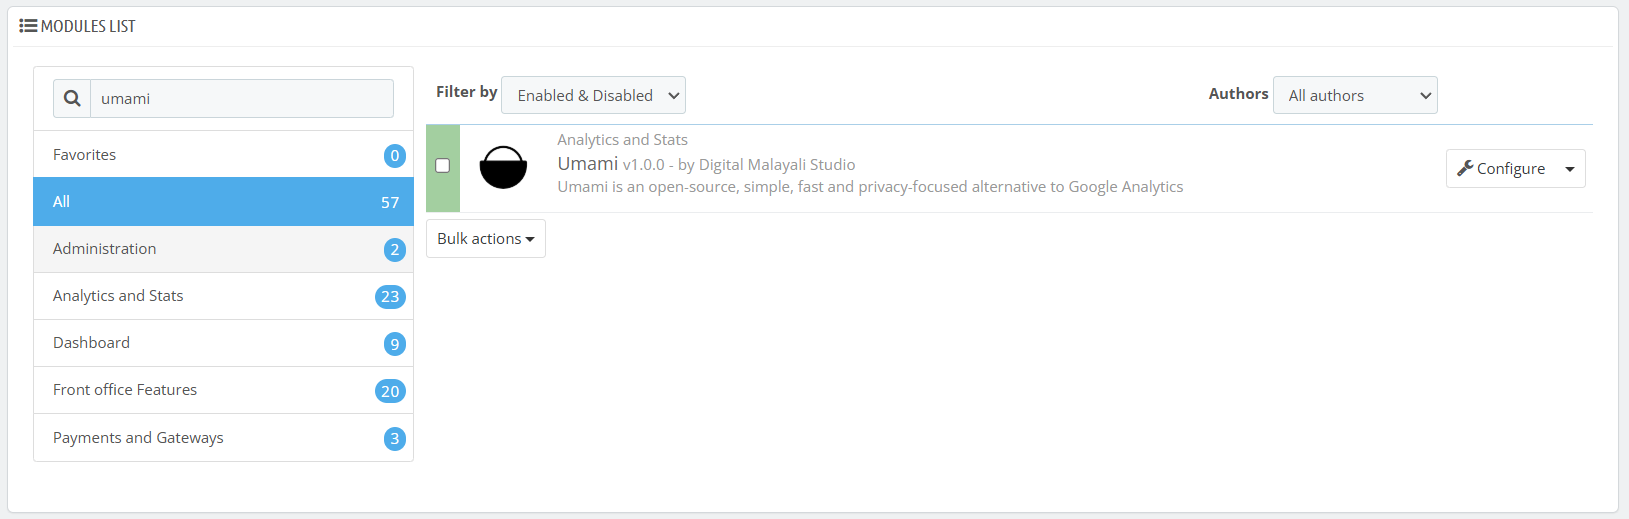
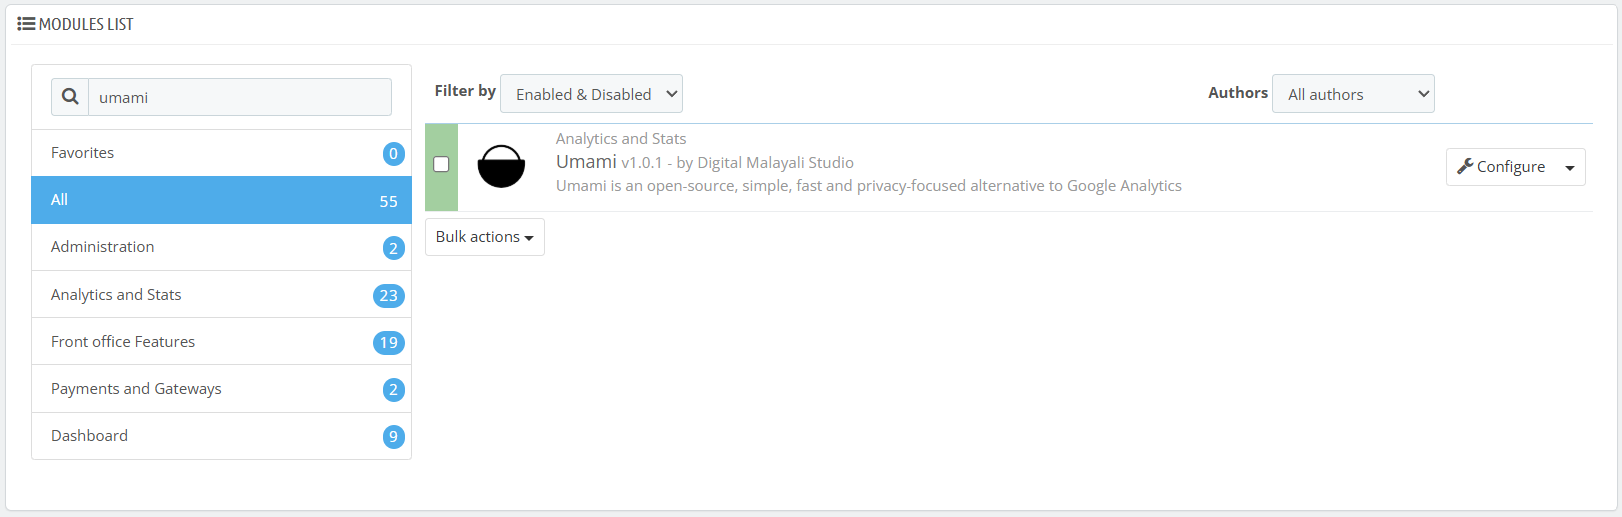
:sparkles: feat: add new configuration properties

diff --git a/qlo_umami.php b/qlo_umami.php
@@ -23,7 +23,7 @@ class Qlo_Umami extends Module
     public function __construct()
     {
         $this->name = 'qlo_umami';
-        $this->version = '1.0.0';
+        $this->version = '1.0.1';
         $this->ps_versions_compliancy = ['min' => '1.6', 'max' => _PS_VERSION_];
         $this->author = 'Digital Malayali Studio';
         $this->bootstrap = true;
@@ -55,6 +55,8 @@ class Qlo_Umami extends Module
             $dataHostURL = Tools::getValue('DATA_HOST_URL');
             $dataTag = Tools::getValue('DATA_TAG');
             $dataAutoTrack = (int) Tools::getValue('DATA_AUTO_TRACK');
+            $dataExcludeSearch = (int) Tools::getValue('DATA_EXCLUDE_SEARCH');
+            $dataExcludeHash = (int) Tools::getValue('DATA_EXCLUDE_HASH');
             $trackBackofficeEnabled = (int) Tools::getValue('TRACK_BACKOFFICE');
 
             if (!$website || !Validate::isGenericName($website)) {
@@ -68,6 +70,8 @@ class Qlo_Umami extends Module
                 Configuration::updateValue('DATA_HOST_URL', $dataHostURL);
                 Configuration::updateValue('DATA_TAG', $dataTag);
                 Configuration::updateValue('DATA_AUTO_TRACK', $dataAutoTrack);
+                Configuration::updateValue('DATA_EXCLUDE_SEARCH', $dataExcludeSearch);
+                Configuration::updateValue('DATA_EXCLUDE_HASH', $dataExcludeHash);
                 Configuration::updateValue('TRACK_BACKOFFICE', $trackBackofficeEnabled);
 
                 $html .= $this->displayConfirmation($this->l('Configuration updated'));
@@ -148,6 +152,40 @@ class Qlo_Umami extends Module
                 ),
                 array(
                     'type' => 'switch',
+                    'label' => $this->l('Data Exclude Search'),
+                    'name' => 'DATA_EXCLUDE_SEARCH',
+                    'desc' => $this->l('Enable if you do not want to collect search parameters from the URL'),
+                    'is_bool' => true,
+                    'values' => array(
+                        array(
+                            'value' => 1,
+                            'label' => $this->l('Yes'),
+                        ),
+                        array(
+                            'value' => 0,
+                            'label' => $this->l('No'),
+                        ),
+                    ),
+                ),
+                array(
+                    'type' => 'switch',
+                    'label' => $this->l('Data Exclude Hash'),
+                    'name' => 'DATA_EXCLUDE_HASH',
+                    'desc' => $this->l('Enable if you do not want to collect hash value from the URL'),
+                    'is_bool' => true,
+                    'values' => array(
+                        array(
+                            'value' => 1,
+                            'label' => $this->l('Yes'),
+                        ),
+                        array(
+                            'value' => 0,
+                            'label' => $this->l('No'),
+                        ),
+                    ),
+                ),
+                array(
+                    'type' => 'switch',
                     'label' => $this->l('Enable Back Office Tracking'),
                     'name' => 'TRACK_BACKOFFICE',
                     'desc' => $this->l('Enable or disable the tracking inside the Back Office'),
@@ -180,6 +218,8 @@ class Qlo_Umami extends Module
         $helper->fields_value['DATA_HOST_URL'] = Configuration::get('DATA_HOST_URL');
         $helper->fields_value['DATA_TAG'] = Configuration::get('DATA_TAG');
         $helper->fields_value['DATA_AUTO_TRACK'] = Configuration::get('DATA_AUTO_TRACK');
+        $helper->fields_value['DATA_EXCLUDE_SEARCH'] = Configuration::get('DATA_EXCLUDE_SEARCH');
+        $helper->fields_value['DATA_EXCLUDE_HASH'] = Configuration::get('DATA_EXCLUDE_HASH');
         $helper->fields_value['TRACK_BACKOFFICE'] = Configuration::get('TRACK_BACKOFFICE');
 
         return $helper->generateForm($fieldsForm);
@@ -199,6 +239,8 @@ class Qlo_Umami extends Module
                 'data_host_url' => Configuration::get('DATA_HOST_URL'),
                 'data_tag' => Configuration::get('DATA_TAG'),
                 'data_auto_track' => Configuration::get('DATA_AUTO_TRACK'),
+                'data_exclude_search' => Configuration::get('DATA_EXCLUDE_SEARCH'),
+                'data_exclude_hash' => Configuration::get('DATA_EXCLUDE_HASH'),
             )
         );
 
@@ -215,6 +257,8 @@ class Qlo_Umami extends Module
                 'data_host_url' => Configuration::get('DATA_HOST_URL'),
                 'data_tag' => Configuration::get('DATA_TAG'),
                 'data_auto_track' => Configuration::get('DATA_AUTO_TRACK'),
+                'data_exclude_search' => Configuration::get('DATA_EXCLUDE_SEARCH'),
+                'data_exclude_hash' => Configuration::get('DATA_EXCLUDE_HASH'),
             ));
 
             return $this->display(__FILE__, 'qlo_umami.tpl');
@@ -236,6 +280,8 @@ class Qlo_Umami extends Module
             || !Configuration::updateValue('DATA_HOST_URL', '')
             || !Configuration::updateValue('DATA_TAG', '')
             || !Configuration::updateValue('DATA_AUTO_TRACK', 1)
+            || !Configuration::updateValue('DATA_EXCLUDE_SEARCH', 0)
+            || !Configuration::updateValue('DATA_EXCLUDE_HASH', 0)
             || !Configuration::updateValue('TRACK_BACKOFFICE', 0)
         ) {
             return false;
@@ -256,6 +302,8 @@ class Qlo_Umami extends Module
             || !Configuration::deleteByName('DATA_HOST_URL')
             || !Configuration::deleteByName('DATA_TAG')
             || !Configuration::deleteByName('DATA_AUTO_TRACK')
+            || !Configuration::deleteByName('DATA_EXCLUDE_SEARCH')
+            || !Configuration::deleteByName('DATA_EXCLUDE_HASH')
             || !Configuration::deleteByName('TRACK_BACKOFFICE')
         ) {
             return false;
